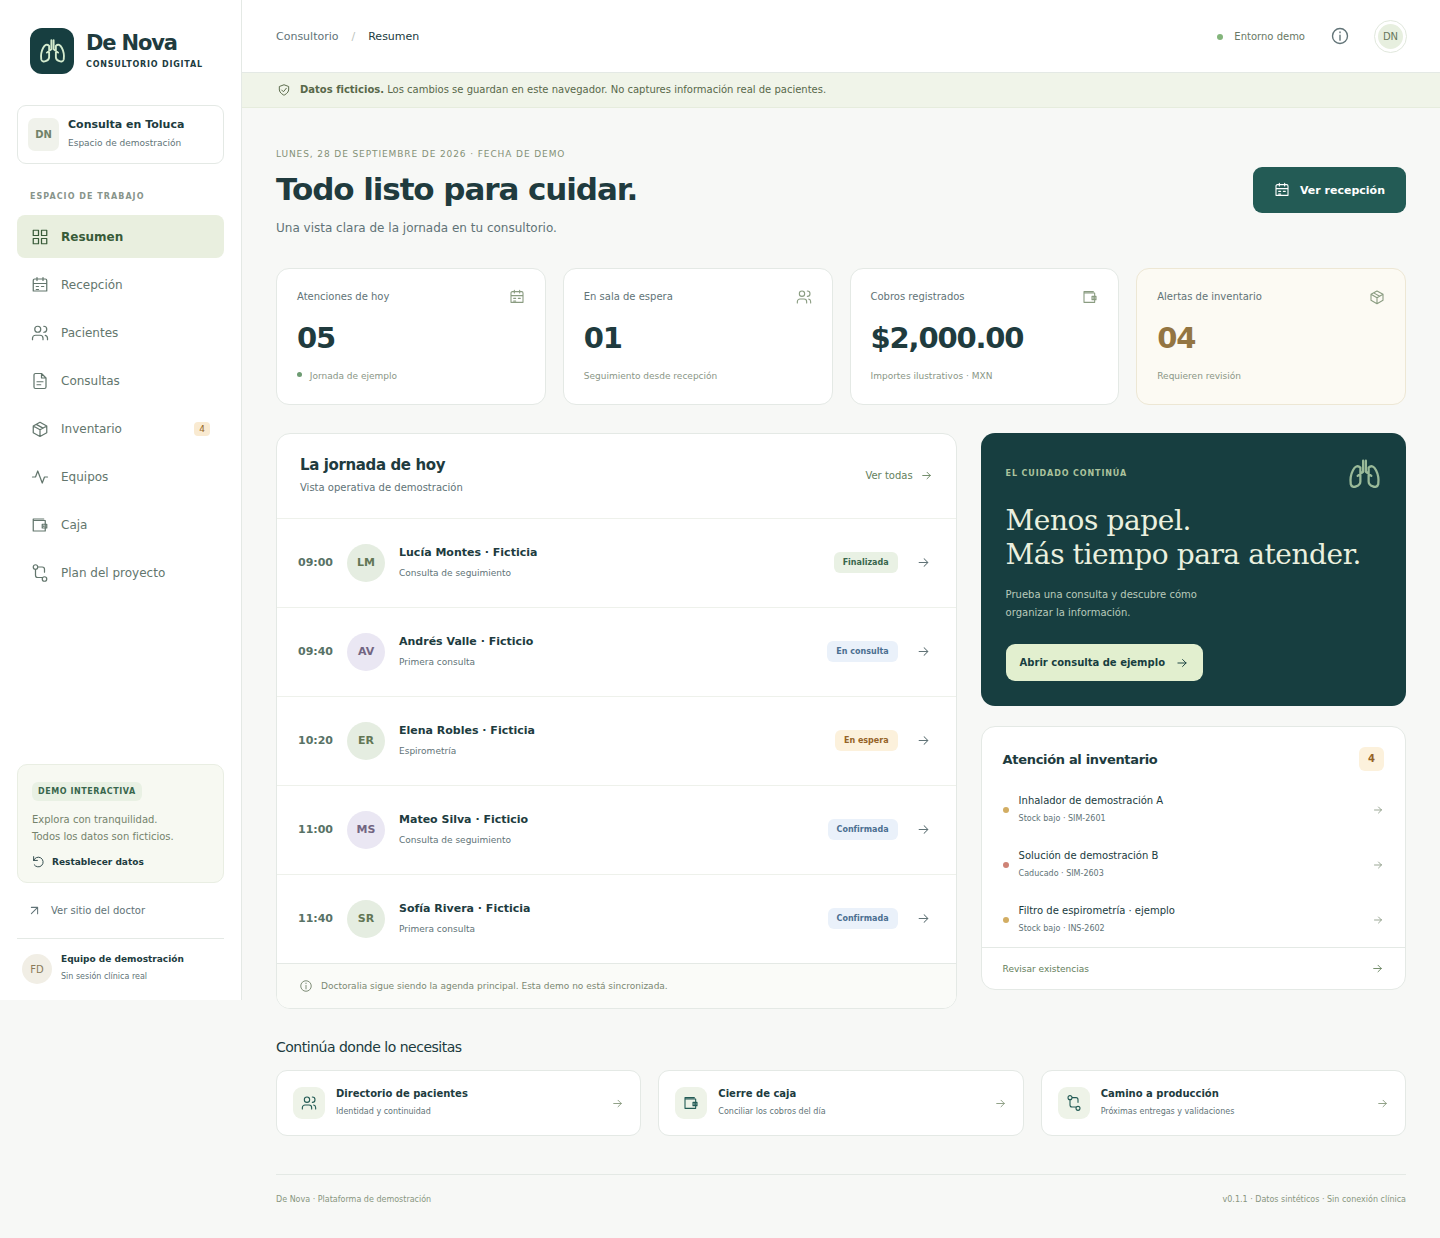
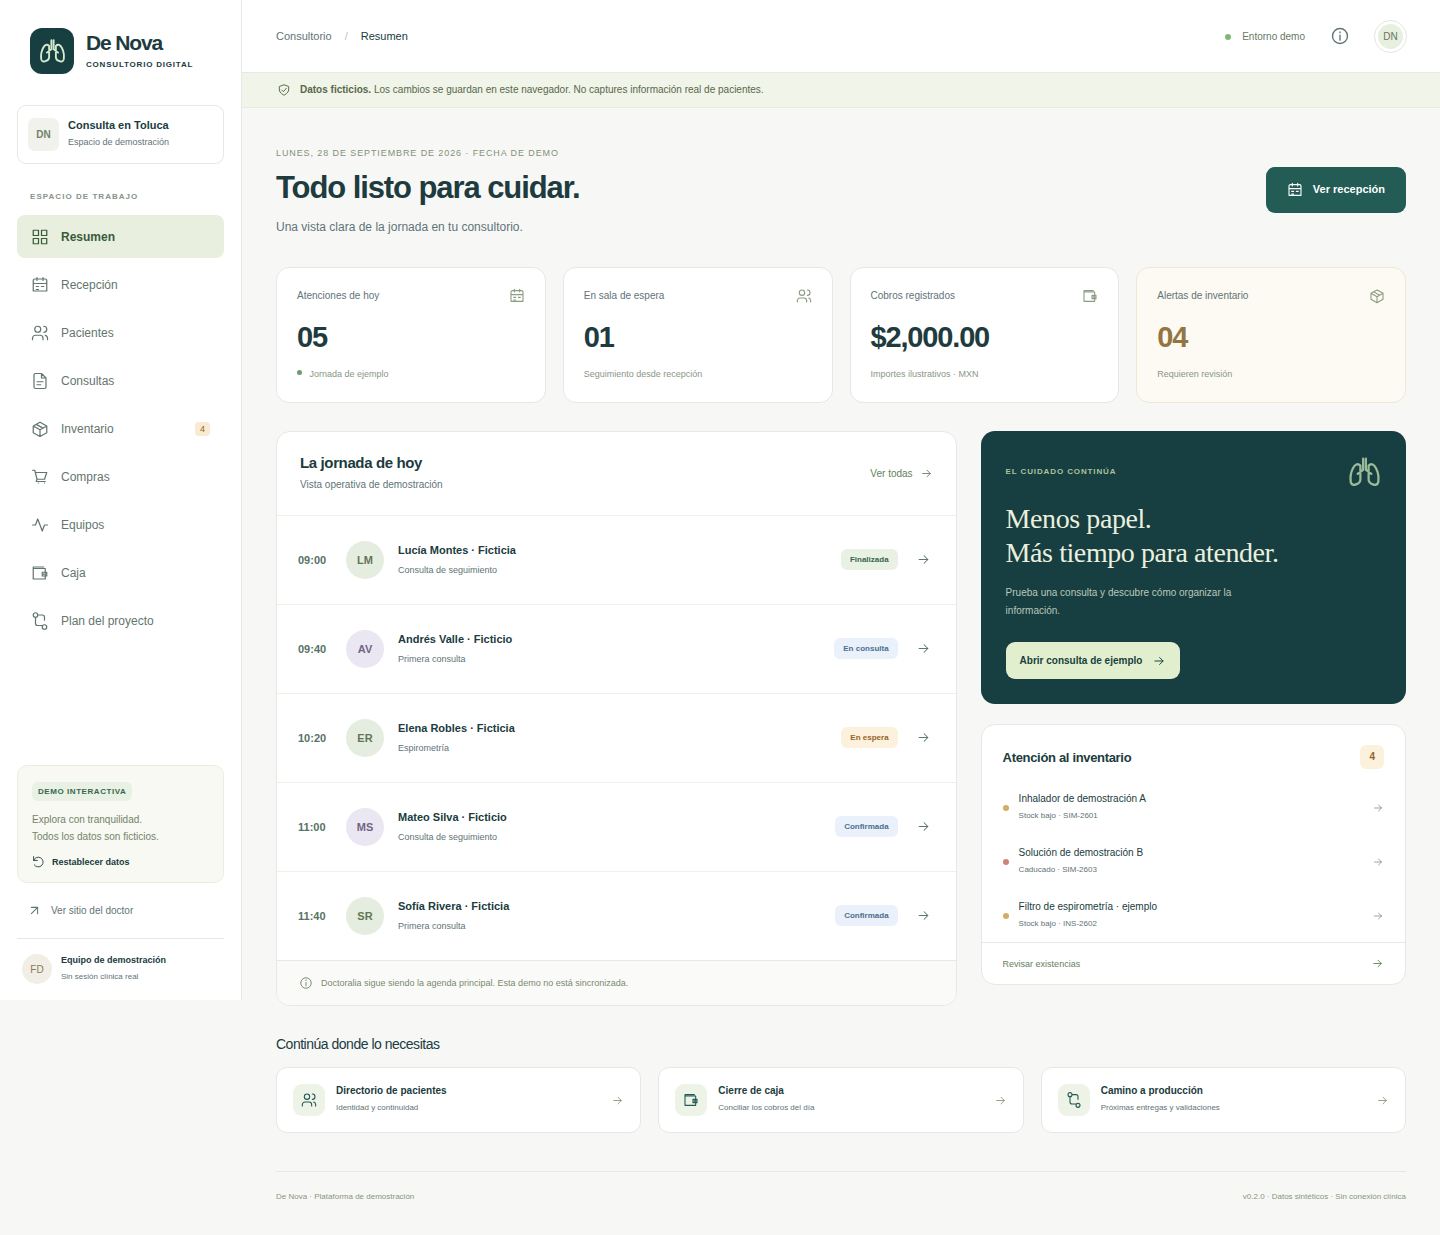
docs: add validated purchasing previews and CI evidence [skip ci]
Documentation and screenshots only. Application code remains identical to 8ab4310, which passed the 22 domain and 18 browser tests. Record the outstanding initial Pages activation.

diff --git a/docs/VALIDATION.md b/docs/VALIDATION.md
@@ -28,3 +28,9 @@ Esta emulación móvil no equivale a haber probado Safari ni un iPhone físico. 
 El workflow de la entrega anterior compiló y pasó sus pruebas, pero `Configure Pages` devolvió `Get Pages site failed / Not Found`. Es necesario activar **Settings → Pages → Source: GitHub Actions** y volver a ejecutar el workflow. La preparación del workflow por sí sola no demuestra que el sitio ya esté publicado.
 
 El siguiente despliegue debe comprobarse en Actions y después abrirse en la URL devuelta por `Deploy demo`. El artefacto `demo-browser-report` contiene el reporte y capturas del CI por siete días.
+
+## Evidencia de esta entrega
+
+Código verificado: `8ab4310`. [Ejecución de GitHub Actions](https://github.com/Finithe-Phoenix/PulmonogyClinic/actions/runs/36369206390): el job `validate` pasó las 22 pruebas de dominio, la compilación y las 18 pruebas de navegador. El job `deploy` sigue fallando en la configuración inicial de Pages; no se declara una publicación exitosa.
+
+Las capturas de `docs/previews/compras-desktop.png`, `compras-mobile.png` y `panel-desktop.png` proceden de esa ejecución. Las vistas de compras se revisaron después del ajuste para celular.

diff --git a/README.md b/README.md
@@ -6,7 +6,7 @@ Primera entrega del proyecto digital del Dr. Marco Antonio De Nova Macedo: sitio
 
 ![Propuesta del sitio del doctor](docs/previews/sitio-desktop.jpg)
 
-[Ver el panel de gestión](docs/previews/panel-desktop.png) · [Guion para presentar la demo](docs/DEMO_GUIDE.md) · [Validaciones y límites](docs/VALIDATION.md)
+[Ver el panel de gestión](docs/previews/panel-desktop.png) · [Compras en escritorio](docs/previews/compras-desktop.png) · [Compras en celular](docs/previews/compras-mobile.png) · [Guion para presentar la demo](docs/DEMO_GUIDE.md) · [Validaciones y límites](docs/VALIDATION.md)
 
 ## Ejecutar
 
